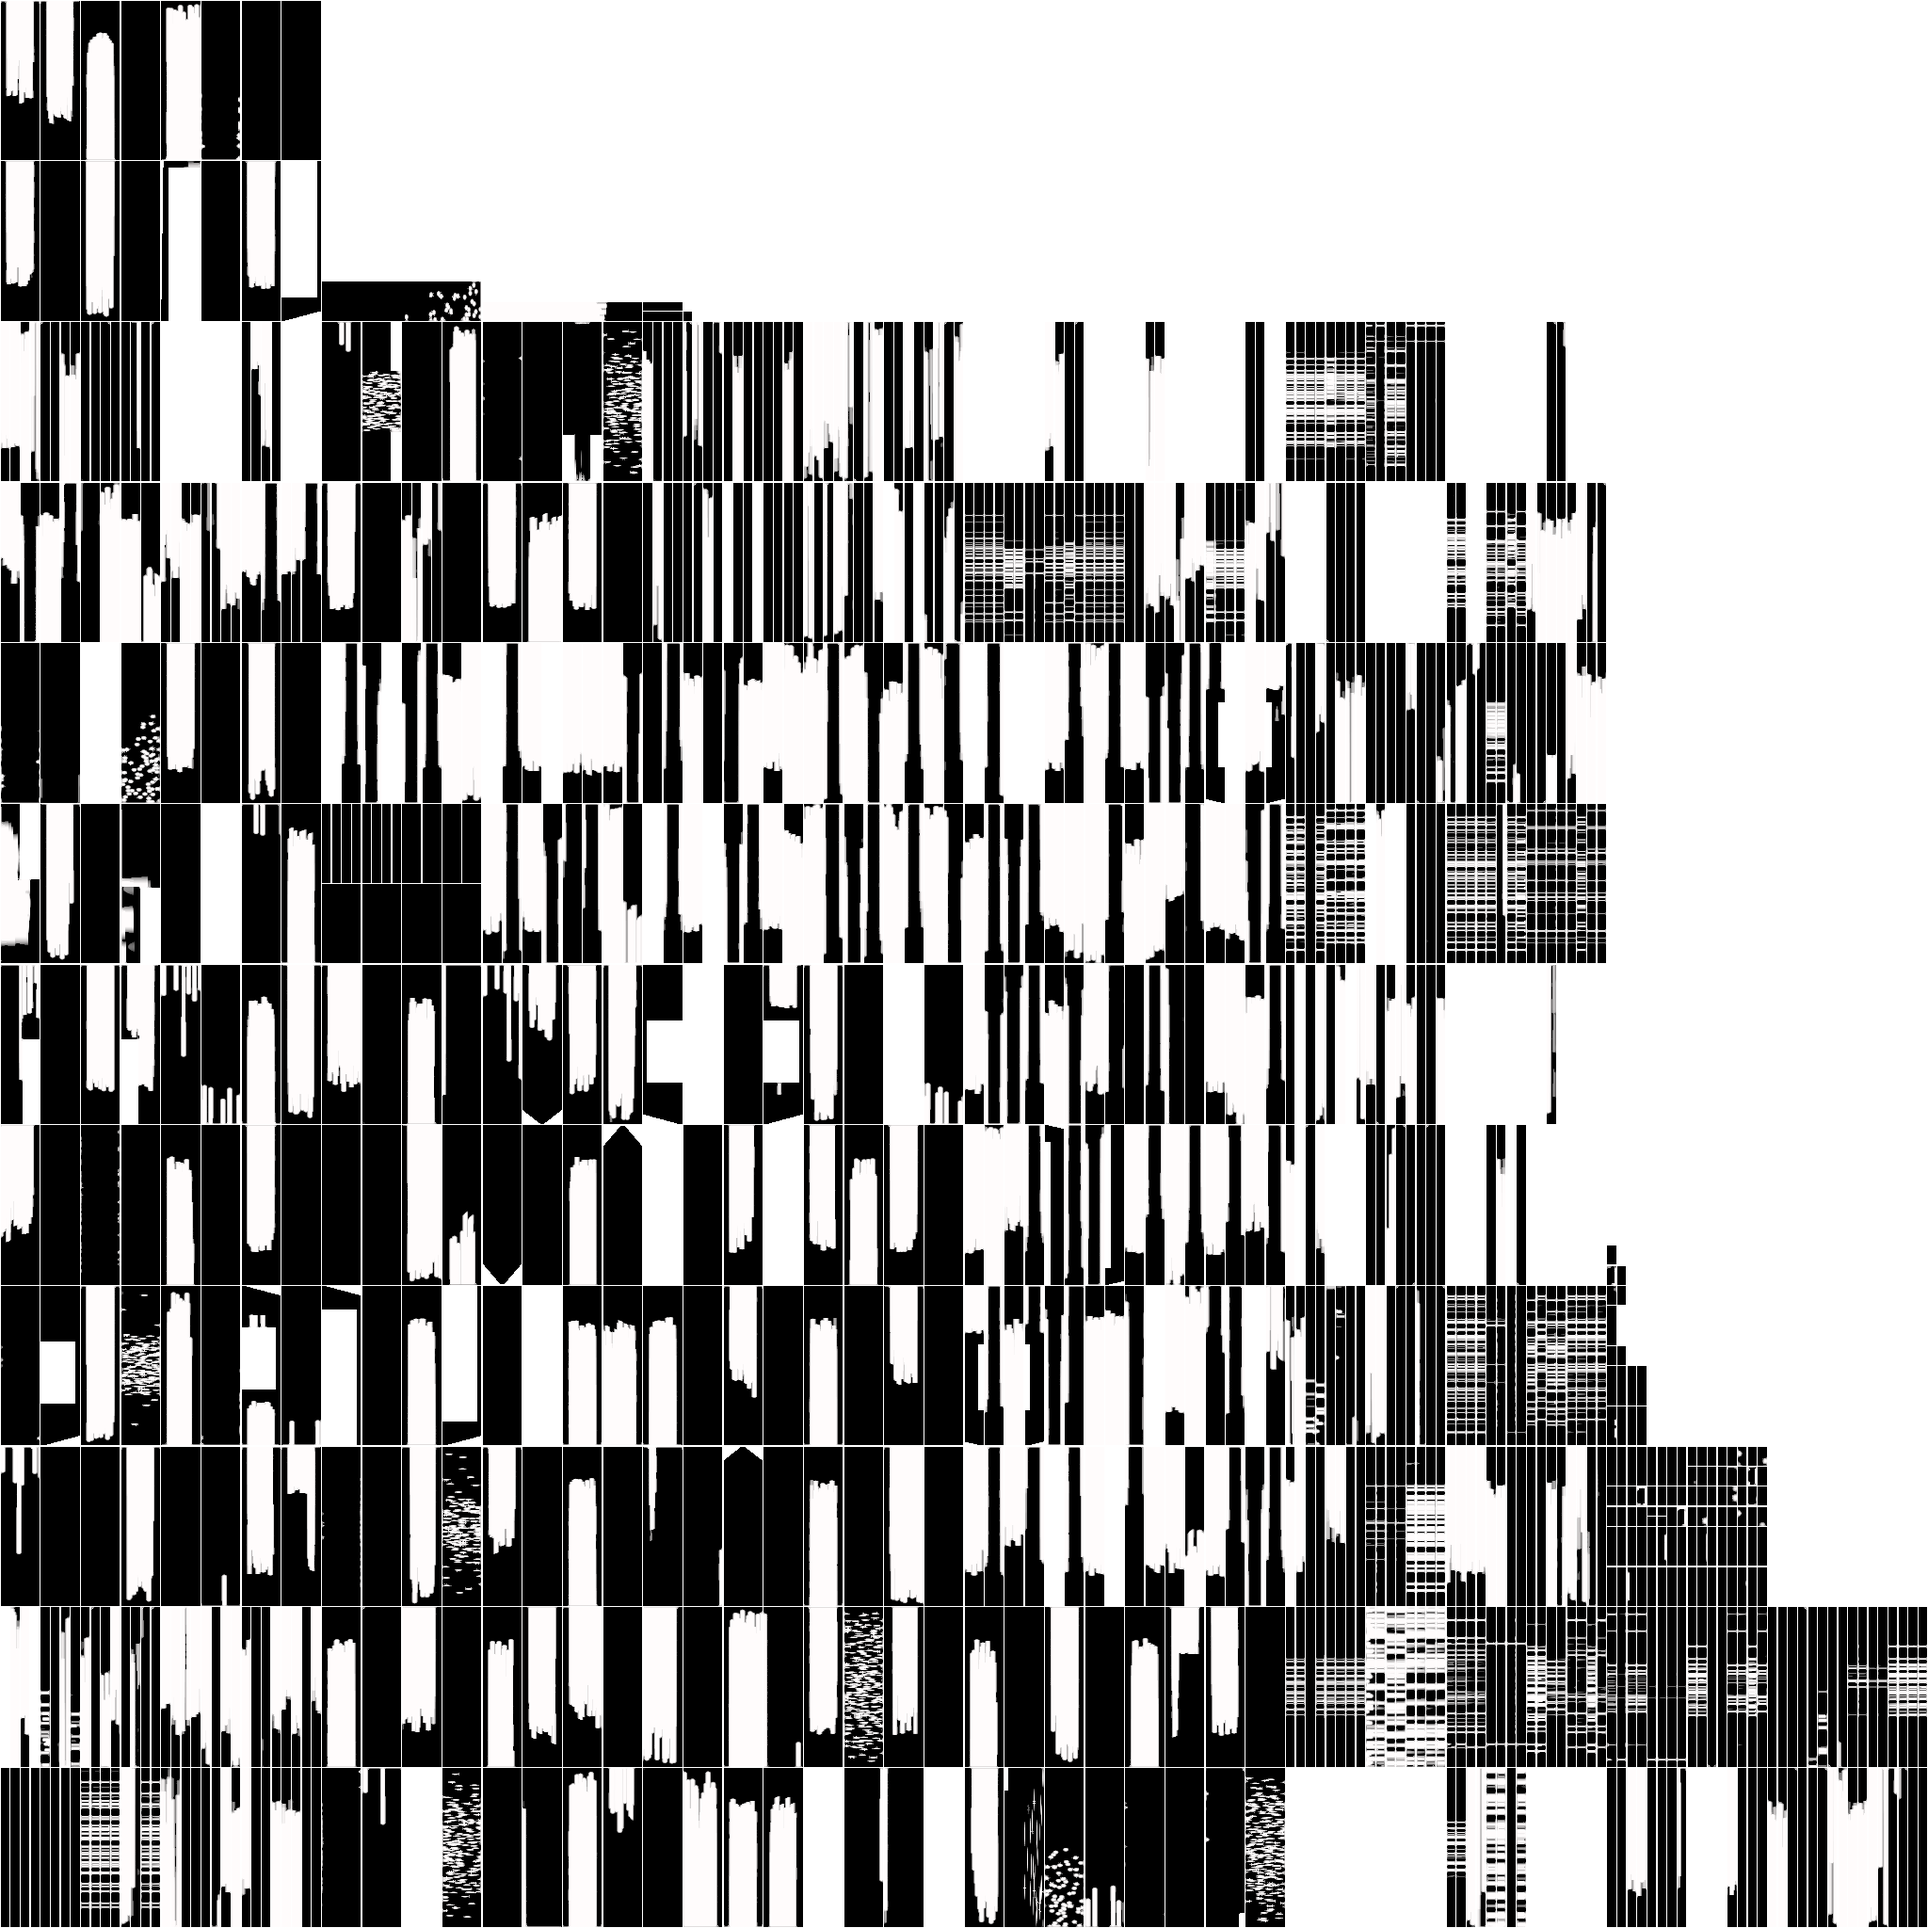
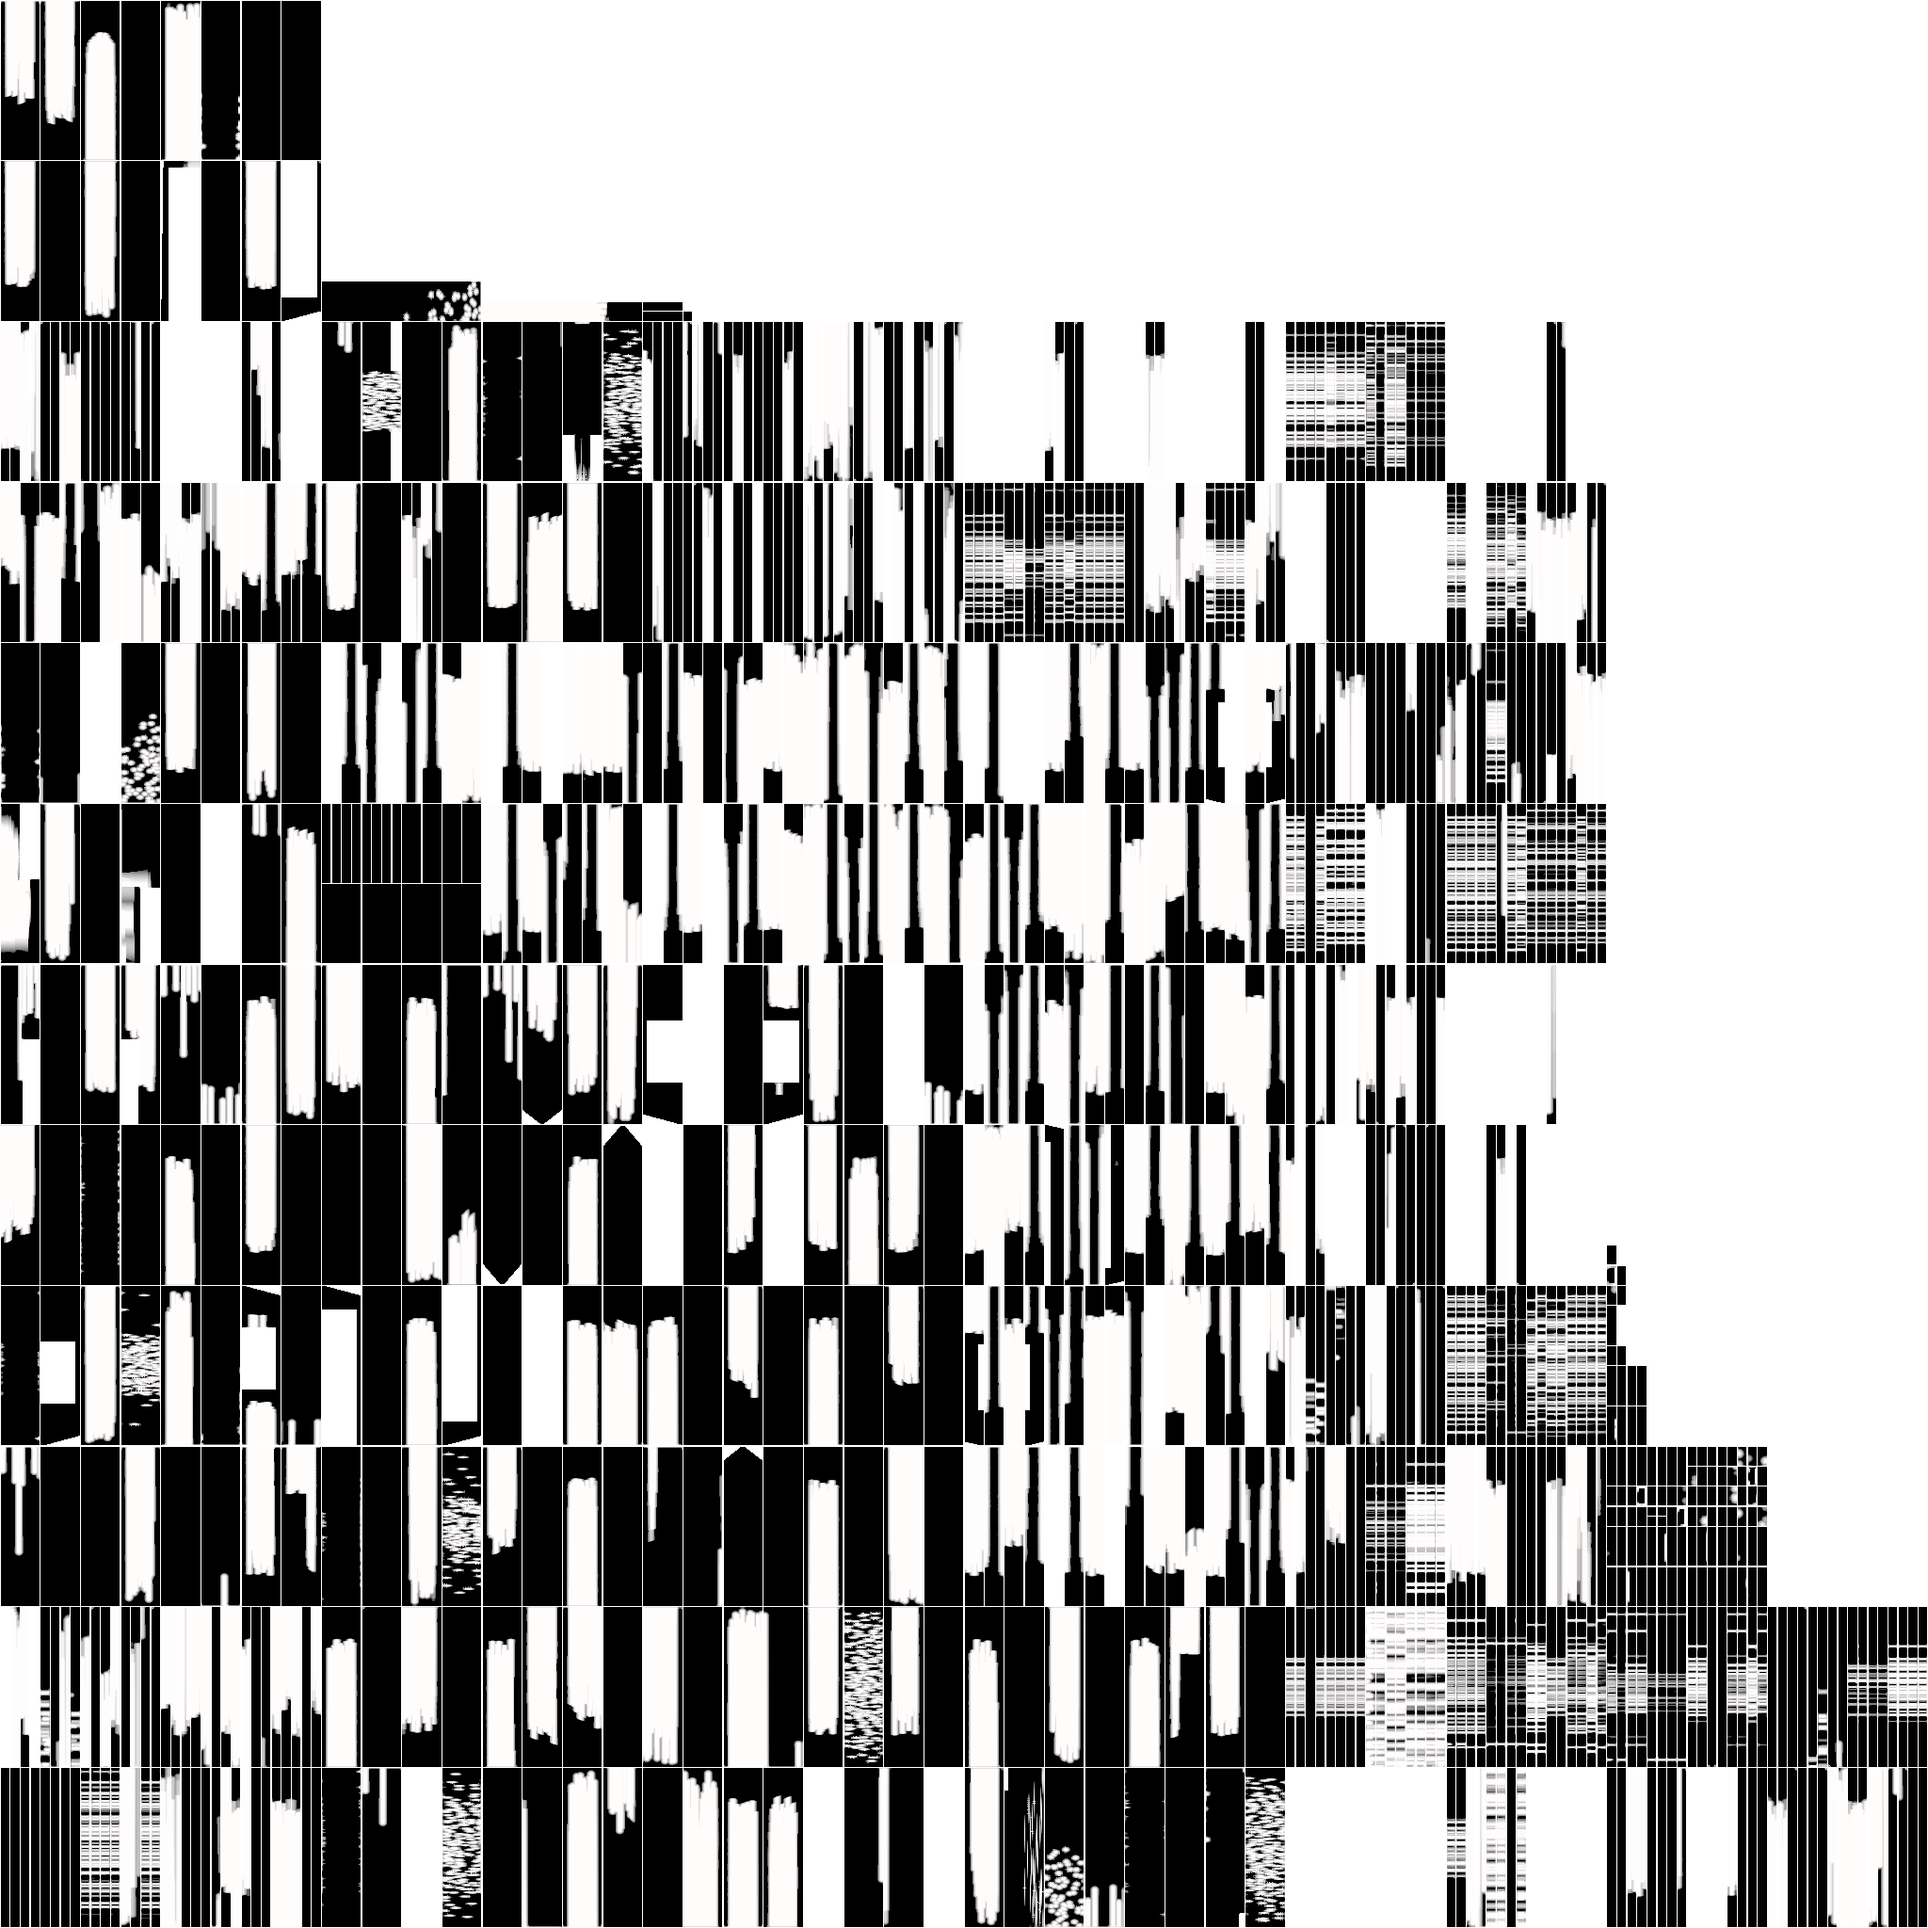
changed color encoding and updated dosemap

diff --git a/index.js b/index.js
@@ -114,7 +114,7 @@ light.shadow.camera.bottom = - d;
 light.shadow.camera.near = 0.5;
 light.shadow.camera.far = 500;
 scene.add( light );
-scene.add( new THREE.AmbientLight( 0xaaaaaa, 0.2 ) );
+scene.add( new THREE.AmbientLight( 0xaaaaaa, 0.6 ) );
 const helper = new  THREE.CameraHelper(light.shadow.camera)
 scene.add(helper)
 //window size
@@ -134,7 +134,7 @@ const renderer = new THREE.WebGL1Renderer({
     canvas: canvas,
     antialias: true
 })
-renderer.outputEncoding = THREE.sRGBEncoding;
+renderer.Encoding = THREE.LinearEncoding;
 //renderer.setClearColor( 0xffffff, 1);
 renderer.setSize(sizes.width, sizes.height)
 //renderer.setPixelRatio(Math.min(window.devicePixelRatio, 2))
